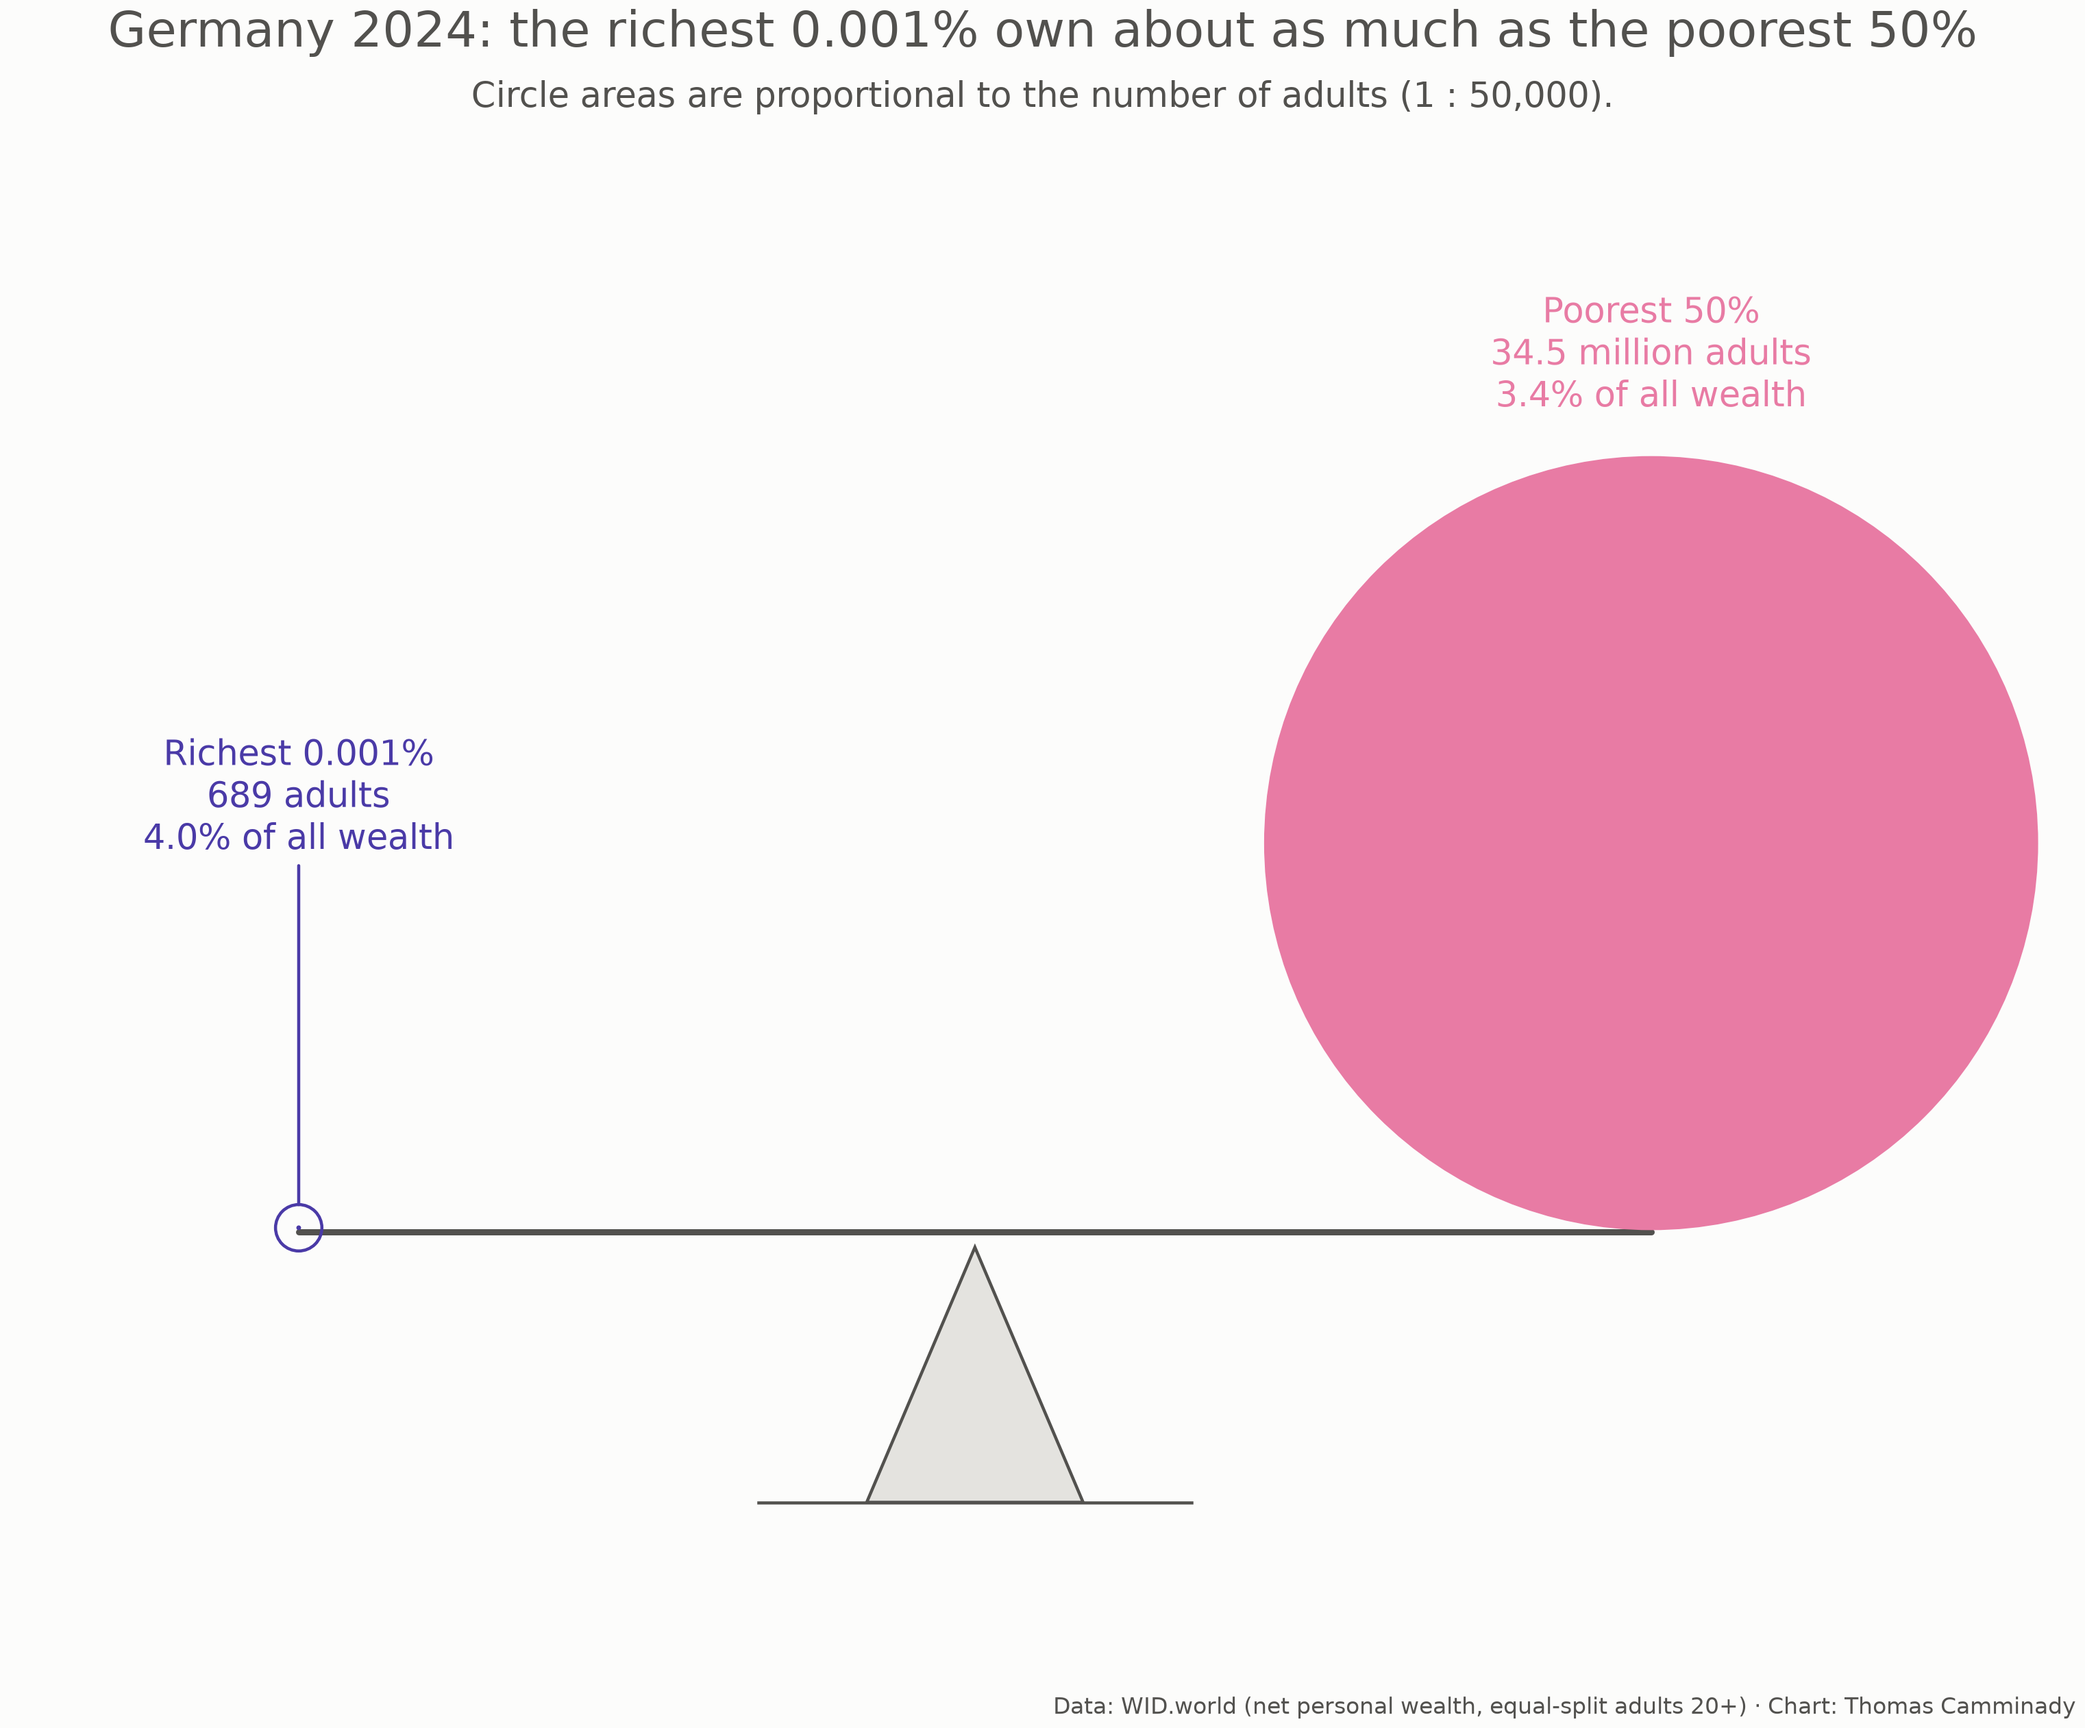
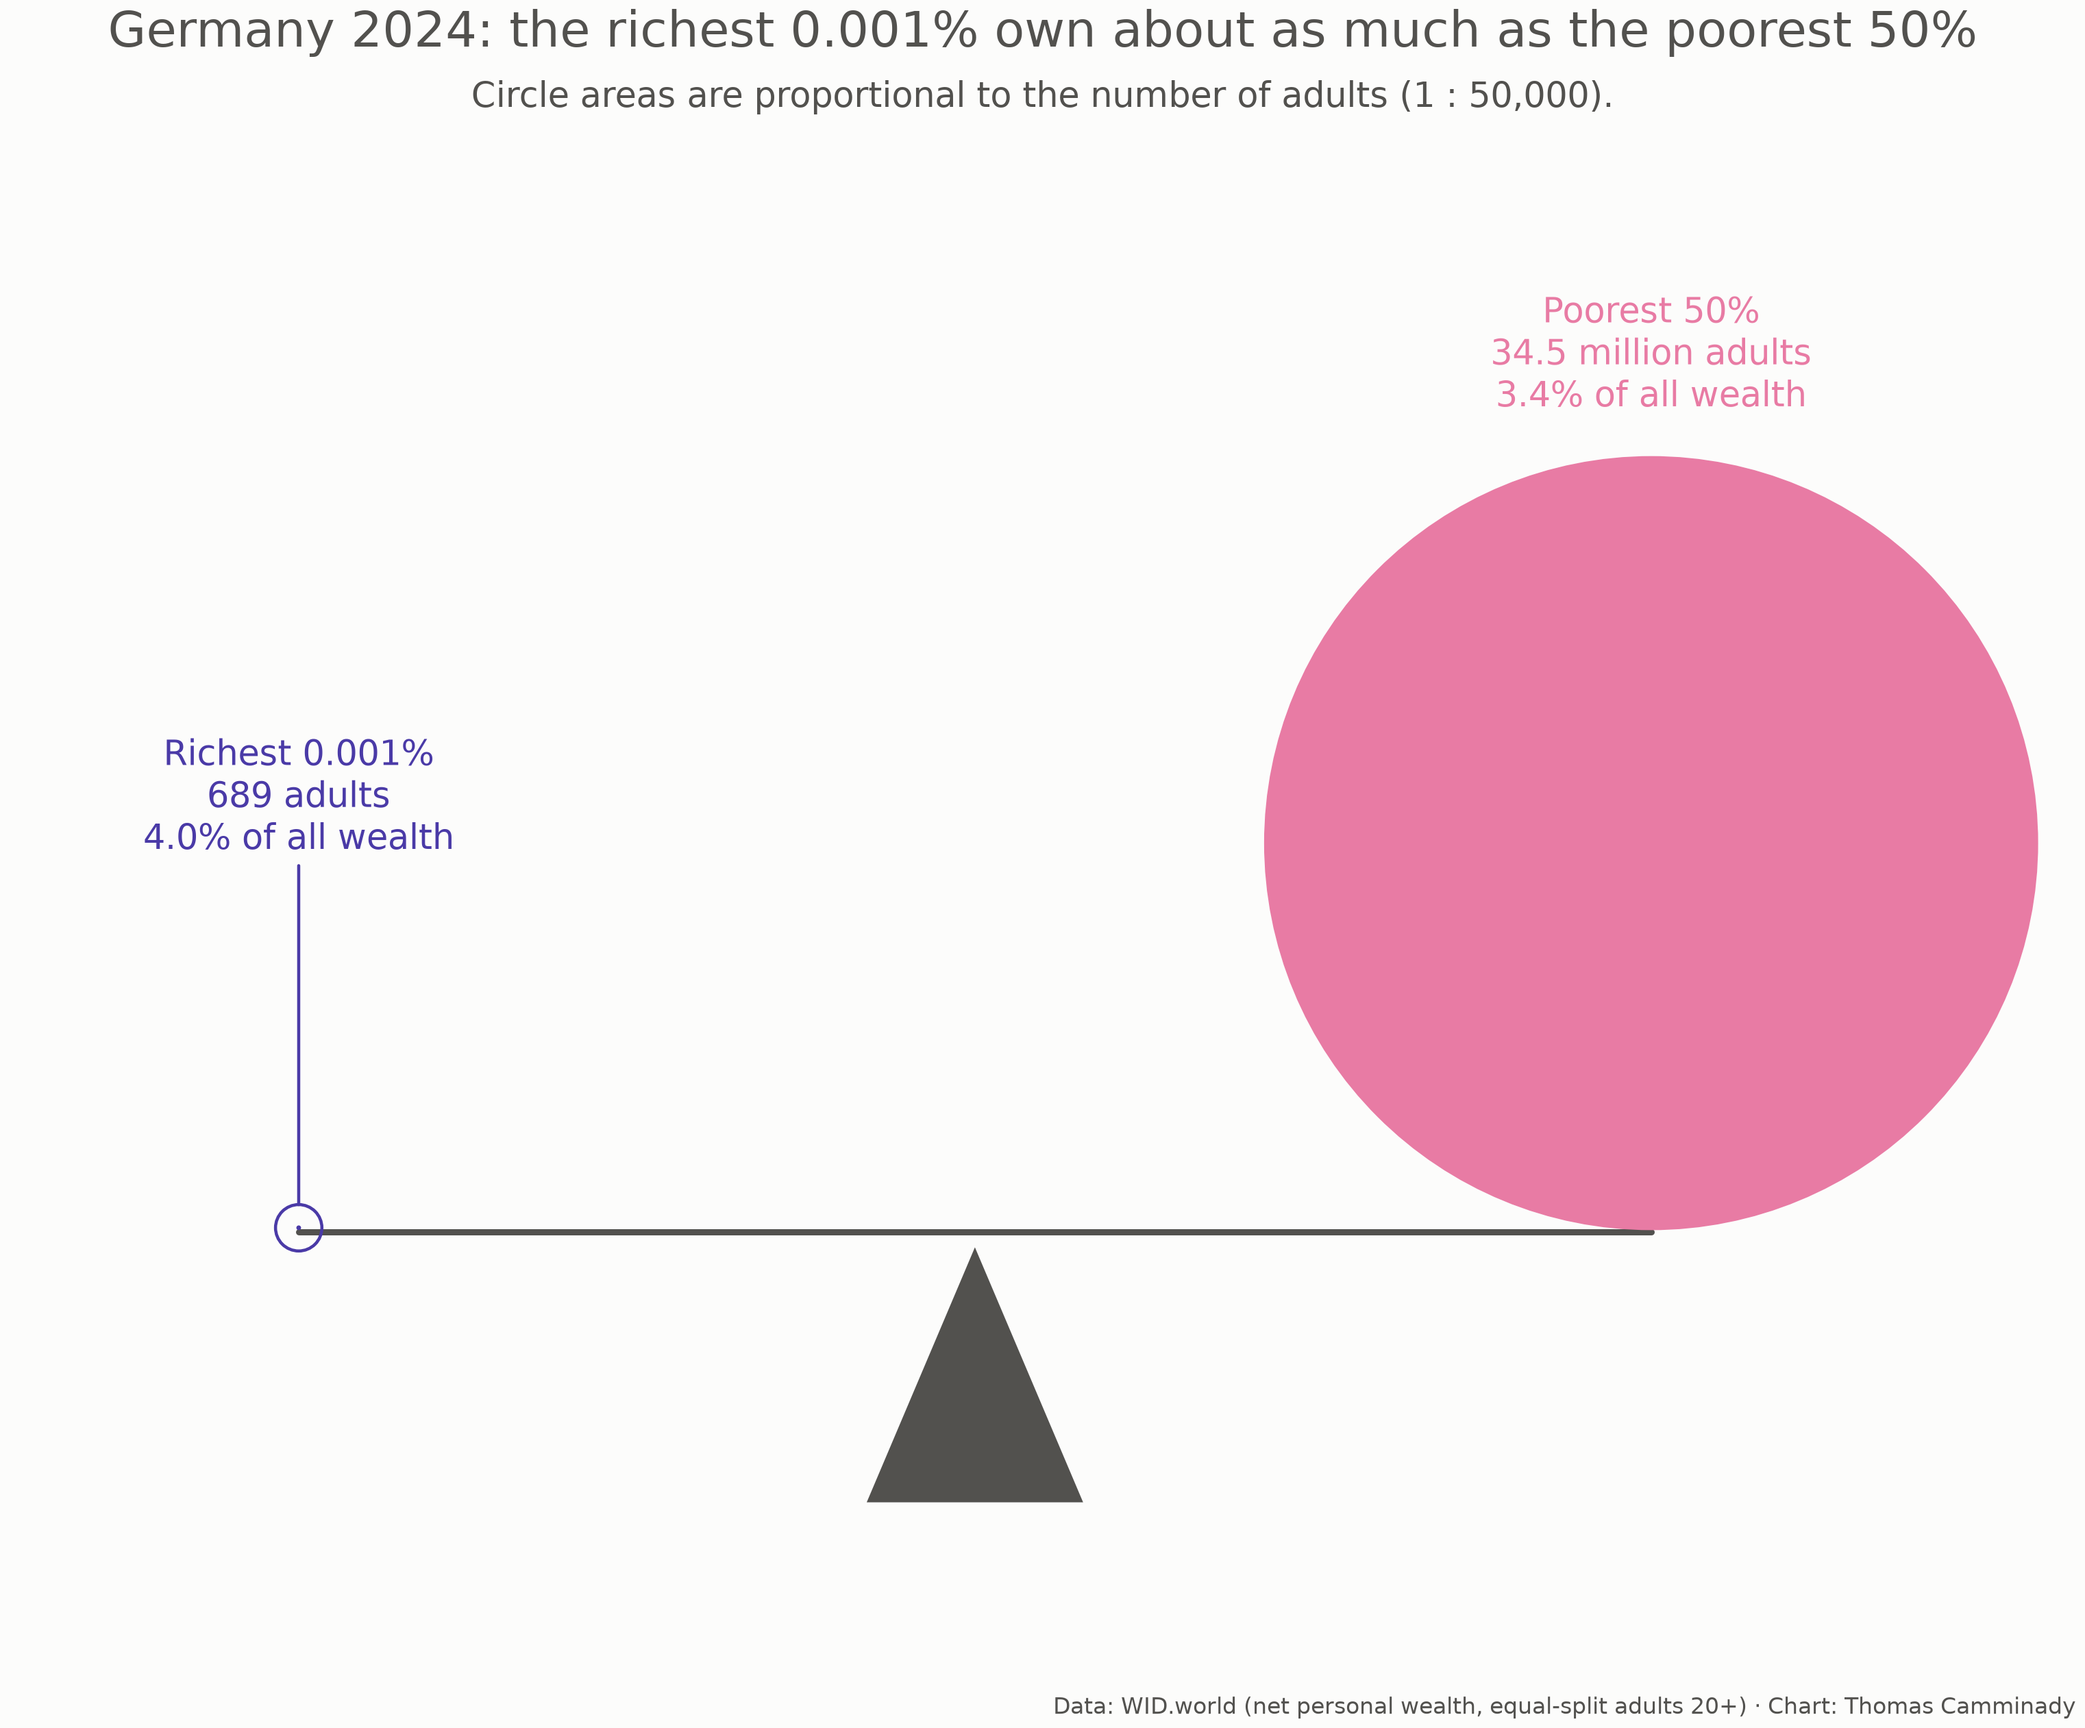
Balance: solid wedge in the beam colour, no ground line

Changed region(s): [[0.4058, 0.7113, 0.5307, 0.8969]]

diff --git a/src/wid/plotting/balance.py b/src/wid/plotting/balance.py
@@ -13,7 +13,7 @@ import polars as pl
 from matplotlib.patches import Circle, Polygon
 
 from wid.plotting.donut_chart import MAGENTA, VIOLET
-from wid.plotting.style import GRID, INK_SECONDARY, SOURCE_NOTE, SURFACE
+from wid.plotting.style import INK_SECONDARY, SOURCE_NOTE, SURFACE
 
 RICH_PCT = 0.001  # richest x% of adults
 POOR_PCT = 50.0  # poorest x% of adults
@@ -79,17 +79,10 @@ def plot_balance(bins: pl.DataFrame, adults: int, year: int, out_path: Path) -> 
                 (FULCRUM_HALF_WIDTH, -FULCRUM_HEIGHT),
             ],
             closed=True,
-            facecolor=GRID,
-            edgecolor=INK_SECONDARY,
-            lw=LINE_WIDTH,
+            facecolor=INK_SECONDARY,
+            edgecolor="none",
             zorder=2,
         )
-    )
-    ax.plot(
-        [-2 * FULCRUM_HALF_WIDTH, 2 * FULCRUM_HALF_WIDTH],
-        [-FULCRUM_HEIGHT] * 2,
-        color=INK_SECONDARY,
-        lw=LINE_WIDTH,
     )
 
     # One circle per side, resting on the beam's ends.
